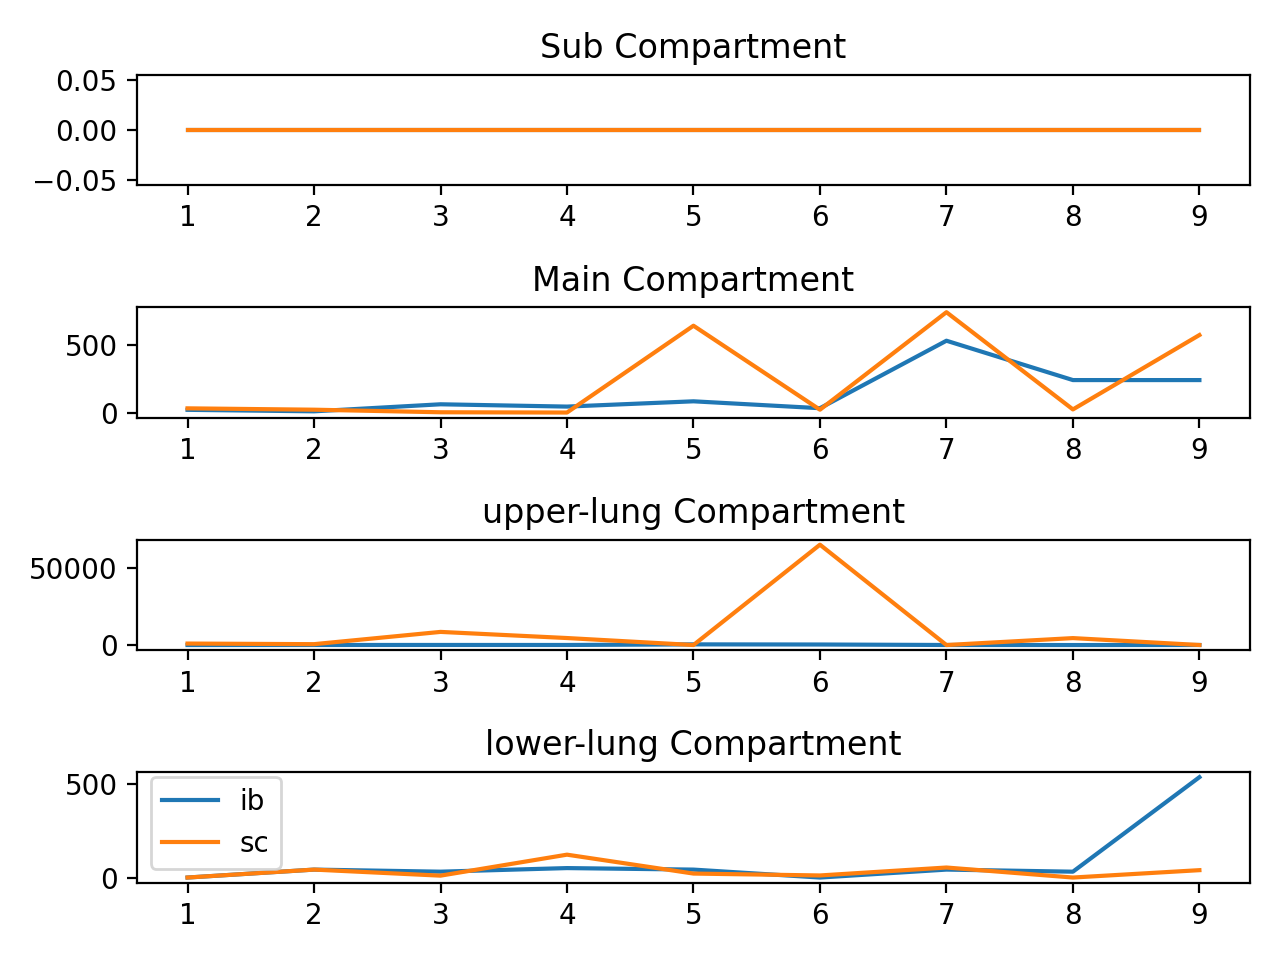
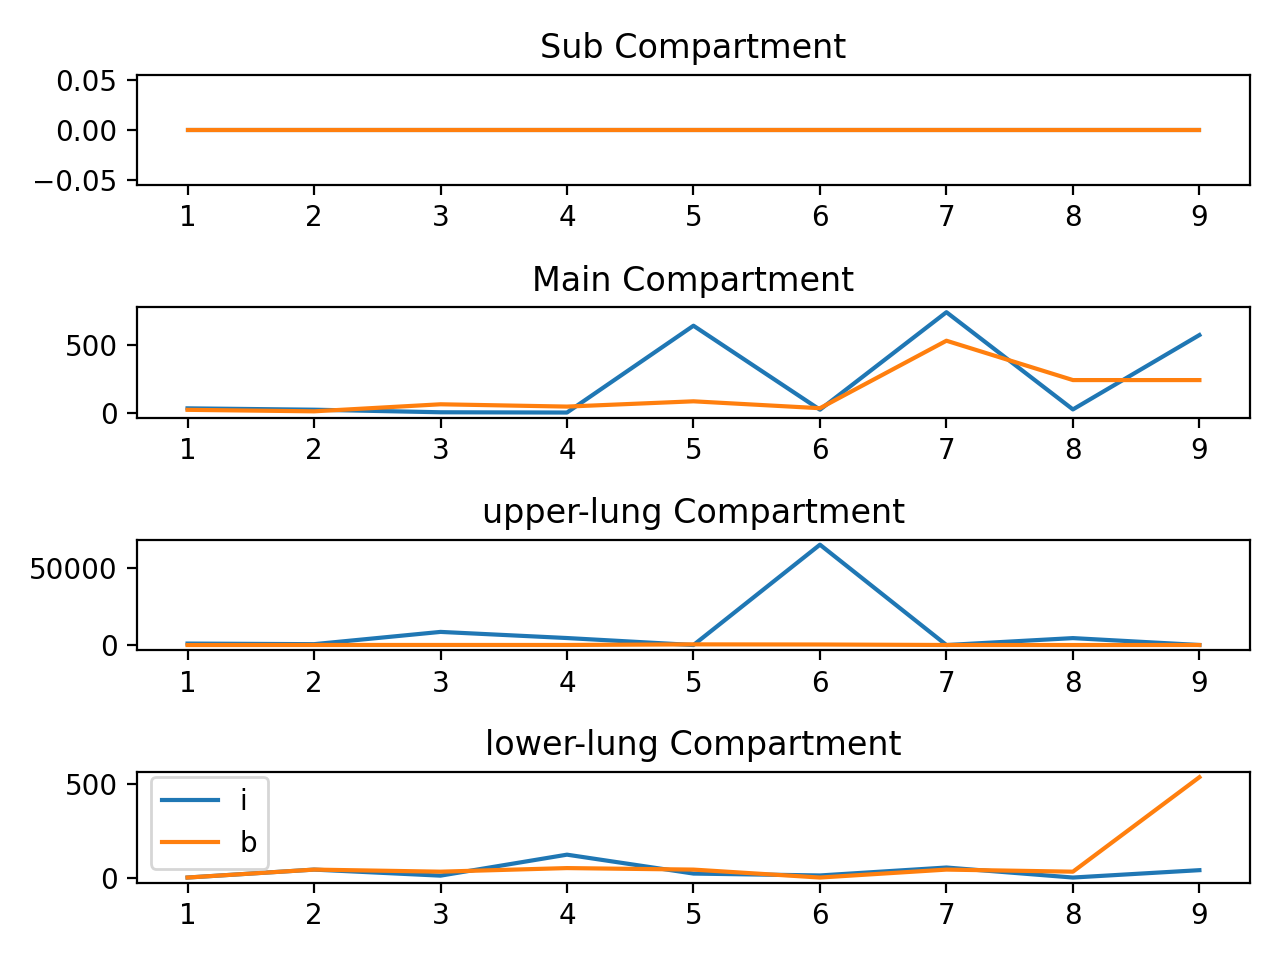
working but unfinished visualiser

diff --git a/plot_2.py b/plot_2.py
@@ -5,16 +5,16 @@ from matplotlib import pyplot as plt
 import pandas as pd
 import json
 
-with open('./param.json', 'r') as JSON:
+
+input = [['./param_2.json', './test_data_sc.csv'], ['./param_1.json', './test_data_ib.csv']] #This is where the JSON output would go -- Working on this sti
+
+input_json = input[0][0]
+with open(input_json, 'r') as JSON:
     input_dict = json.load(JSON)
-print(input_dict)
 compartments = ['Sub', 'Main']
 for i in input_dict['compartments']:
     if i[2] not in ['Sub', 'Main']:
         compartments.append(i[2])
-
-models = input_dict['model_type']
-print(models)
 
 def process_data(csv): #Input must include compartments list 
     """This function takes a csv file and creates a labelled panda dataframe"""
@@ -25,14 +25,24 @@ def process_data(csv): #Input must include compartments list
     df.columns = colnames
     return df
 
-# def plot_model():
+# # def plot_model():
 fig, axs = plt.subplots(len(compartments), 1)
-for i in range(len(models)):
-    #Define which model csv you want --> timestamp?
-    if len(models) > 1:
+for i in input:
+    input_json = i[0]
+    csv = i[1]
+    with open(input_json, 'r') as JSON:
+        input_dict = json.load(JSON)
+    compartments = ['Sub', 'Main']
+    for i in input_dict['compartments']:
+        if i[2] not in ['Sub', 'Main']:
+            compartments.append(i[2])
+
+    models = input_dict['model_type']
+    if len(input) > 1:
         model = models
     else:
         model = models[i]
+
     df = process_data('./test_data_{}.csv'.format(model))
     for j in range(len(compartments)):
         compartment = compartments[j]
@@ -41,5 +51,5 @@ for i in range(len(models)):
 plt.legend(models)
 plt.tight_layout()
 plt.show()
-#     fig.savefig()
+    # fig.savefig()
 

diff --git a/visualiser.py b/visualiser.py
@@ -5,16 +5,16 @@ from matplotlib import pyplot as plt
 import pandas as pd
 import json
 
-with open('./param.json', 'r') as JSON:
+
+input = [['./param_2.json', './test_data_sc.csv'], ['./param_1.json', './test_data_ib.csv']] #This is where the JSON output would go -- Working on this sti
+
+input_json = input[0][0]
+with open(input_json, 'r') as JSON:
     input_dict = json.load(JSON)
-print(input_dict)
 compartments = ['Sub', 'Main']
 for i in input_dict['compartments']:
     if i[2] not in ['Sub', 'Main']:
         compartments.append(i[2])
-
-models = input_dict['model_type']
-print(models)
 
 def process_data(csv): #Input must include compartments list 
     """This function takes a csv file and creates a labelled panda dataframe"""
@@ -25,14 +25,24 @@ def process_data(csv): #Input must include compartments list
     df.columns = colnames
     return df
 
-# def plot_model():
+# # def plot_model():
 fig, axs = plt.subplots(len(compartments), 1)
-for i in range(len(models)):
-    #Define which model csv you want --> timestamp?
-    if len(models) > 1:
+for i in input:
+    input_json = i[0]
+    csv = i[1]
+    with open(input_json, 'r') as JSON:
+        input_dict = json.load(JSON)
+    compartments = ['Sub', 'Main']
+    for i in input_dict['compartments']:
+        if i[2] not in ['Sub', 'Main']:
+            compartments.append(i[2])
+
+    models = input_dict['model_type']
+    if len(input) > 1:
         model = models
     else:
         model = models[i]
+
     df = process_data('./test_data_{}.csv'.format(model))
     for j in range(len(compartments)):
         compartment = compartments[j]
@@ -41,5 +51,5 @@ for i in range(len(models)):
 plt.legend(models)
 plt.tight_layout()
 plt.show()
-#     fig.savefig()
+    # fig.savefig()
 
